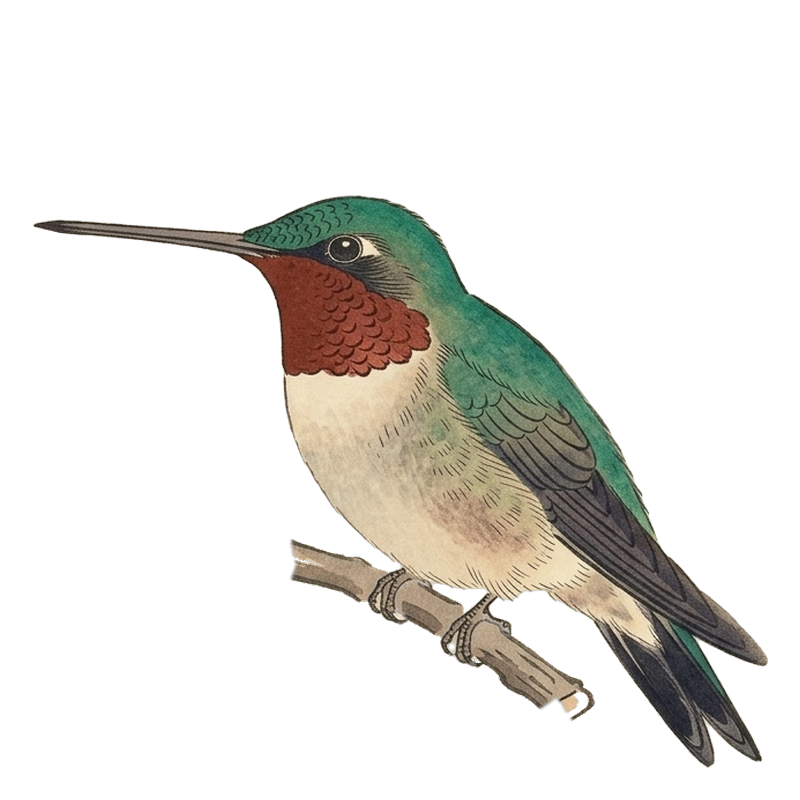
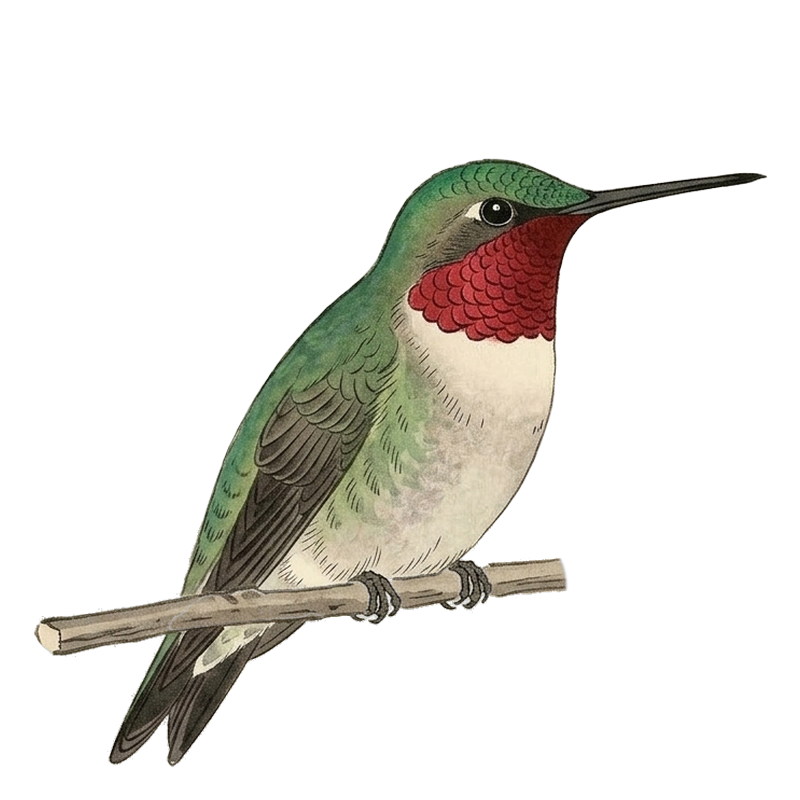
fix(illustrations): repaint the Ruby-throated Hummingbird
The old painting had a brick-brown throat, a thrush-like body and big
grasping feet; its backlit reference showed the gorget as black. Swap in
a USFWS photo with the compact shape and a lit gorget, ask for the whole
throat in ruby red, and install the new painting.

diff --git a/tools/illustrate/references/SOURCES.md b/tools/illustrate/references/SOURCES.md
@@ -26,7 +26,7 @@ Each is cropped to the bird.
 | `setophaga-coronata.jpg` | Male Yellow-rumped Warbler (Myrtle, breeding), USFWS Mountain-Prairie ([Wikimedia Commons](https://commons.wikimedia.org/wiki/File:Myrtle_yellow-rumped_Warbler_Seedskadee_NWR_(17565663621).jpg)) | Public domain |
 | `molothrus-ater.jpg` | Male Brown-headed Cowbird, MONGO ([Wikimedia Commons](https://commons.wikimedia.org/wiki/File:Molothrus_ater_Brown-headed_Cowbird_5.29.2010.jpg)) | Public domain |
 | `troglodytes-aedon.jpg` | House Wren, U.S. Fish and Wildlife Service - Midwest Region ([Wikimedia Commons](https://commons.wikimedia.org/wiki/File:House_Wren_in_DeWitt,_MI_(33761820763).jpg)) | Public domain |
-| `archilochus-colubris.jpg` | Male Ruby-throated Hummingbird, U.S. Fish and Wildlife Service - Midwest Region ([Wikimedia Commons](https://commons.wikimedia.org/wiki/File:Ruby-throated_Hummingbird_(34948957896).jpg)) | Public domain |
+| `archilochus-colubris.jpg` | Male Ruby-throated Hummingbird, by Courtney Celley, U.S. Fish and Wildlife Service - Midwest Region ([Wikimedia Commons](https://commons.wikimedia.org/wiki/File:Ruby-throated_hummingbird_(53727355041).jpg)) | Public domain |
 | `pandion-haliaetus.jpg` | Osprey, NASA/Ken Thornsley ([Wikimedia Commons](https://commons.wikimedia.org/wiki/File:Osprey_on_a_peg.jpg)) | Public domain |
 | `sphyrapicus-varius.jpg` | Male Yellow-bellied Sapsucker, U.S. Fish and Wildlife Service - Midwest Region ([Wikimedia Commons](https://commons.wikimedia.org/wiki/File:Yellow-bellied_sapsucker_(53752103302).jpg)) | Public domain |
 | `regulus-satrapa.jpg` | Golden-crowned Kinglet, PookieFugglestein ([Wikimedia Commons](https://commons.wikimedia.org/wiki/File:Golden-crowned_Kinglet_in_cedar.jpg)) | CC0 |
